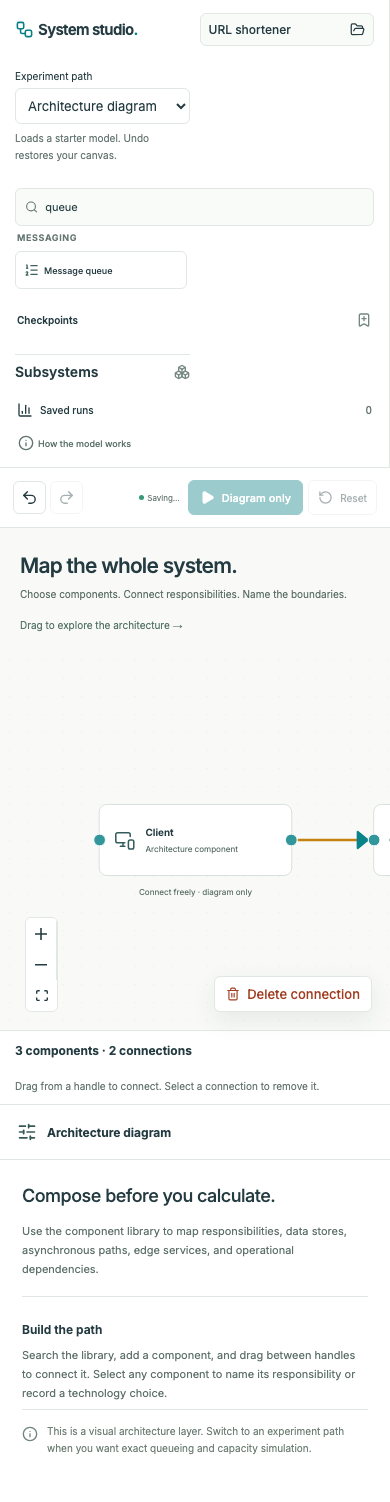
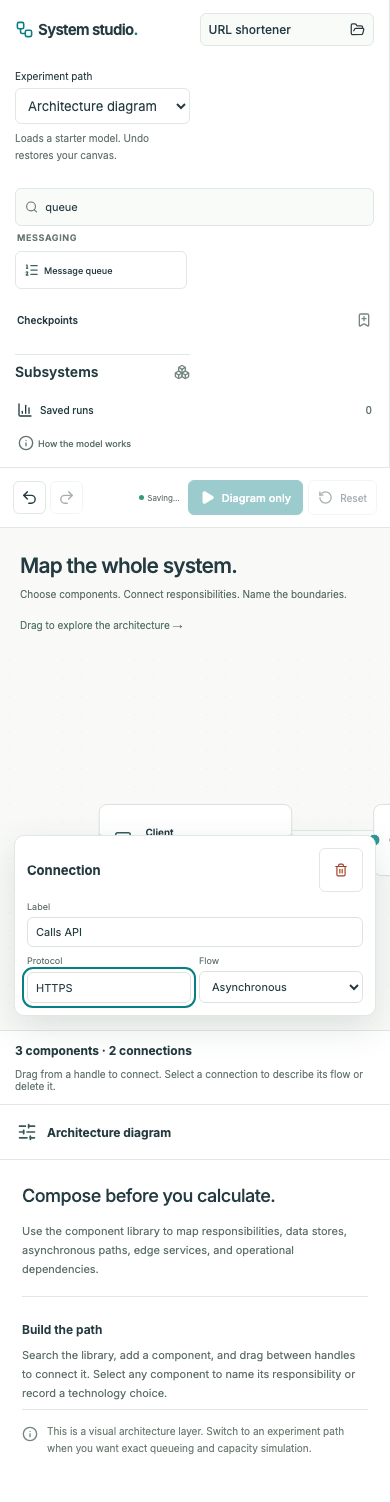
Add editable diagram connection semantics

diff --git a/src/components/ArchitectureCanvas.tsx b/src/components/ArchitectureCanvas.tsx
@@ -326,6 +326,9 @@ export function ArchitectureCanvas({
             data: {
               running: running && pageVisible,
               showLabel: !isDiagramGraph(g),
+              label: e.label,
+              protocol: e.protocol,
+              communication: e.communication ?? "sync",
               rateLabel: observed ? "observed" : g.nodes.find((n) => n.kind === "cache")?.cacheMode === "lru" && target?.kind === "database" ? "capacity" :
                 target?.kind === "worker"
                   ? metrics?.time
@@ -468,10 +471,11 @@ export function ArchitectureCanvas({
       <Background color="#d6e0dc" gap={20} size={1} />
       <Controls showInteractive={false} position="bottom-left" />
     </ReactFlow>
-    {!!selectedEdges.length && <button className="canvas-edge-delete" onClick={() => {
-      editor.change((graph) => { graph.edges = graph.edges.filter((edge) => !selectedEdges.includes(edge.id)); });
-      setSelectedEdges([]);
-    }}><Trash2 size={14} />Delete connection</button>}
+    {!!selectedEdges.length && isDiagramGraph(g) && (() => { const edge = g.edges.find((item) => item.id === selectedEdges[0]); if (!edge) return null; return <section className="connection-editor" aria-label="Selected connection">
+      <div className="connection-editor-heading"><strong>Connection</strong><button aria-label="Delete connection" onClick={() => { editor.change((graph) => { graph.edges = graph.edges.filter((item) => !selectedEdges.includes(item.id)); }); setSelectedEdges([]); }}><Trash2 size={14} /></button></div>
+      <label><span>Label</span><input aria-label="Connection label" maxLength={60} placeholder="Reads, publishes, uploads…" value={edge.label ?? ""} onChange={(event) => editor.change((graph) => { const item = graph.edges.find((candidate) => candidate.id === edge.id); if (item) item.label = event.target.value; })} /></label>
+      <div className="connection-editor-row"><label><span>Protocol</span><input aria-label="Connection protocol" maxLength={30} placeholder="HTTPS, gRPC…" value={edge.protocol ?? ""} onChange={(event) => editor.change((graph) => { const item = graph.edges.find((candidate) => candidate.id === edge.id); if (item) item.protocol = event.target.value; })} /></label><label><span>Flow</span><select aria-label="Connection flow" value={edge.communication ?? "sync"} onChange={(event) => editor.change((graph) => { const item = graph.edges.find((candidate) => candidate.id === edge.id); if (item) item.communication = event.target.value as "sync" | "async" | "data"; })}><option value="sync">Synchronous</option><option value="async">Asynchronous</option><option value="data">Data flow</option></select></label></div>
+    </section>; })()}
     </>
   );
 }

diff --git a/tests/diagram.spec.ts b/tests/diagram.spec.ts
@@ -13,6 +13,10 @@ test("architecture diagram offers searchable components and editable responsibil
   await expect(page.locator(".node-copy").filter({ hasText: "Media bucket" })).toBeVisible();
   await expect(page.locator(".node-copy").getByText("Stores uploaded media and generated thumbnails.", { exact: true })).toBeVisible();
   await expect(page.getByText(/4 components · 2 connections/)).toBeVisible();
+  await page.locator(".react-flow__edge").first().click({ force: true });
+  await page.getByRole("textbox", { name: "Connection label" }).fill("Calls API");
+  await page.getByRole("textbox", { name: "Connection protocol" }).fill("HTTPS");
+  await expect(page.getByRole("region", { name: "Selected connection" })).toBeVisible();
   await page.screenshot({ path: "artifacts/architecture-components.png", fullPage: true });
 });
 
@@ -24,6 +28,10 @@ test("architecture component palette remains usable on mobile", async ({ page })
   await expect(page.getByRole("button", { name: /Message queue/ })).toBeVisible();
   await page.locator(".react-flow__edge").first().click({ force: true });
   await expect(page.getByRole("button", { name: "Delete connection" })).toBeVisible();
+  await page.getByRole("textbox", { name: "Connection label" }).fill("Calls API");
+  await page.getByRole("textbox", { name: "Connection protocol" }).fill("HTTPS");
+  await page.getByRole("combobox", { name: "Connection flow" }).selectOption("async");
+  await expect(page.getByText("Calls API · HTTPS", { exact: true })).toBeVisible();
   expect(await page.locator(".workspace").evaluate((element) => element.getBoundingClientRect().width <= innerWidth)).toBe(true);
   await page.screenshot({ path: "artifacts/architecture-components-mobile.png", fullPage: true });
 });

diff --git a/src/components/TrafficEdge.tsx b/src/components/TrafficEdge.tsx
@@ -8,7 +8,7 @@ import {
 } from "@xyflow/react";
 
 export type TrafficConnection = Edge<
-  { running: boolean; rate: number; rateLabel?: string; showLabel?: boolean },
+  { running: boolean; rate: number; rateLabel?: string; showLabel?: boolean; label?: string; protocol?: string; communication?: "sync" | "async" | "data" },
   "traffic"
 >;
 
@@ -43,6 +43,7 @@ export const TrafficEdge = memo(function TrafficEdge({
         style={{
           stroke: selected ? "#c48212" : "#72b4b2",
           strokeWidth: selected ? 2 : 1.4,
+          strokeDasharray: data?.communication === "async" ? "7 5" : data?.communication === "data" ? "2 4" : undefined,
         }}
       />
       <path
@@ -54,15 +55,14 @@ export const TrafficEdge = memo(function TrafficEdge({
           opacity: moving ? 1 : 0,
         }}
       />
-      {data?.showLabel !== false && <EdgeLabelRenderer>
+      {(data?.showLabel !== false || data?.label || data?.protocol) && <EdgeLabelRenderer>
         <span
           className="traffic-edge-label"
           style={{
             transform: `translate(-50%, -50%) translate(${labelX}px, ${labelY}px)`,
           }}
         >
-          {Math.round(data?.rate ?? 0).toLocaleString()} /s{" "}
-          {data?.rateLabel ?? "expected"}
+          {data?.showLabel === false ? [data?.label, data?.protocol].filter(Boolean).join(" · ") : <>{Math.round(data?.rate ?? 0).toLocaleString()} /s {data?.rateLabel ?? "expected"}</>}
         </span>
       </EdgeLabelRenderer>}
     </>

diff --git a/src/styles.css b/src/styles.css
@@ -228,7 +228,13 @@ p {
 .diagram-inspector textarea { min-height: 112px; }
 .diagram-node .react-flow__handle { width: 14px; height: 14px; }
 .diagram-node .node-copy span { white-space: normal; overflow: hidden; display: -webkit-box; -webkit-line-clamp: 2; -webkit-box-orient: vertical; line-height: 1.35; }
-.canvas-edge-delete { position: absolute; z-index: 8; right: 18px; bottom: 18px; color: #a13e21; background: #fff; box-shadow: 0 8px 24px #203d3517; }
+.connection-editor { position: absolute; z-index: 8; right: 18px; bottom: 18px; width: 260px; padding: 12px; border: 1px solid var(--line); border-radius: 10px; background: #fff; box-shadow: var(--shadow); }
+.connection-editor-heading { display: flex; align-items: center; justify-content: space-between; margin-bottom: 9px; }
+.connection-editor-heading button { width: 44px; height: 44px; padding: 0; color: #a13e21; }
+.connection-editor label { display: grid; gap: 5px; font-size: 9px; color: var(--muted); }
+.connection-editor input, .connection-editor select { min-width: 0; padding: 7px 8px; font-size: 11px; }
+.connection-editor-row { display: grid; grid-template-columns: 1fr 1fr; gap: 8px; margin-top: 8px; }
+@media (max-width: 560px) { .connection-editor { position: absolute; left: 14px; right: 14px; bottom: 14px; width: auto; } }
 .checkpoints {
   margin-top: 34px;
   border-top: 1px solid var(--line);

diff --git a/src/domain/model.ts b/src/domain/model.ts
@@ -33,6 +33,9 @@ export interface ModelEdge {
   id: string;
   source: string;
   target: string;
+  label?: string;
+  protocol?: string;
+  communication?: "sync" | "async" | "data";
 }
 export interface Settings {
   traffic: number;
@@ -289,6 +292,11 @@ export function validateGraph(graph: Graph, requireRunnable = true): string[] {
   errors.push(...validateProfile(s));
   if (edges.some((e) => !ids.has(e.source) || !ids.has(e.target)))
     errors.push("A connection references a missing component.");
+  for (const edge of edges) {
+    if (edge.label !== undefined && (typeof edge.label !== "string" || edge.label.length > 60)) errors.push("Connection labels must be 60 characters or fewer.");
+    if (edge.protocol !== undefined && (typeof edge.protocol !== "string" || edge.protocol.length > 30)) errors.push("Connection protocols must be 30 characters or fewer.");
+    if (edge.communication !== undefined && !["sync", "async", "data"].includes(edge.communication)) errors.push("Choose synchronous, asynchronous, or data flow.");
+  }
   // Drafts are portable even before their topology can execute.
   if (!requireRunnable) return [...new Set(errors)];
   if (graph.scenario === "diagram") return [...new Set(errors)];

diff --git a/src/App.tsx b/src/App.tsx
@@ -622,7 +622,7 @@ export default function App() {
         ) : diagramMode ? (
           <section className="diagram-status" aria-label="Diagram guidance">
             <strong>{graph.nodes.length} components · {graph.edges.length} connections</strong>
-            <span>{graph.nodes.length >= 100 ? "Component limit reached. " : ""}{graph.edges.length >= 200 ? "Connection limit reached." : "Drag from a handle to connect. Select a connection to remove it."}</span>
+            <span>{graph.nodes.length >= 100 ? "Component limit reached. " : ""}{graph.edges.length >= 200 ? "Connection limit reached." : "Drag from a handle to connect. Select a connection to describe its flow or delete it."}</span>
           </section>
         ) : (
           <MetricsPanel

diff --git a/DESIGN.md b/DESIGN.md
@@ -206,3 +206,5 @@ Finite caches retain the existing node and inspector layout. Their header shows 
 Architecture diagram mode preserves the docked canvas but changes its job from executable experiment to system composition. The left library becomes a searchable catalog of 28 component types grouped by Clients, Edge, Compute, Data, Messaging and Operations. The diagram supports up to 100 components and 200 directed connections. Component cards retain the compact node grammar and Lucide stroke language; each card has an editable name and a 240-character responsibility or technology note. Touch-operable handles on both sides create free-form connections, while selecting an edge reveals an explicit Delete connection action in addition to keyboard deletion.
 
 Diagram edges intentionally omit request-rate labels and animation. The toolbar identifies the mode as diagram-only and disables run/reset actions, the bottom strip reports component and connection counts, and the inspector explains the boundary between visual architecture and exact simulation. Diagram components never acquire implied execution behavior; URL lookup, load-balanced lookup and background-job simulation remain unchanged. Mobile constrains the catalog to a scrollable two-column region so the canvas remains reachable and preserves the selected-edge delete action for touch use.
+
+Selected diagram connections open a compact canvas editor for a concise relationship label, protocol, and flow type. Synchronous paths are solid, asynchronous paths dashed, and data movement dotted; labels combine the relationship and protocol without introducing throughput claims. The same editor carries the touch-safe delete action.

diff --git a/HANDOFF.md b/HANDOFF.md
@@ -2,6 +2,8 @@
 
 Current architecture-component milestone: a separate diagram scenario offers 28 searchable components across six system layers, up to 100 nodes/200 connections, free directed wiring, editable names and responsibility/technology notes. Diagram mode is explicitly non-executable: it hides traffic-rate edge labels, disables Run/Reset, and keeps the existing exact simulations unchanged.
 
+Connection semantics now persist on diagram edges: optional 60-character relationship label, 30-character protocol, and sync/async/data classification. Selected edges open a touch-safe canvas editor and render solid/dashed/dotted paths respectively.
+
 Current finite-cache semantics: keys depend on seed, request ordinal and normalized URL popularity independently of arrivals. Finite LRU begins empty, decides at cache completion and fills only on live database completion. TTL starts at fill; hits refresh recency only. Expired active work holds its slot; timeout-before-database-completion cannot fill. There is no miss coalescing, write or invalidation model. All service instances share the cache. Observed hit rate uses completed hits plus misses, excluding pre-decision rejection/expiry.
 
 User workflow preference: use Gemini through `agy` for code exploration and minor implementations (`agy models` discovers models), not direct Gemini CLI. Gemini3.8Flash through agy generated observedCacheHitRate and tests; origin corrected the named type import and reviewed the output. Optional further source review is pending explicit source-sharing approval and does not block this milestone.

diff --git a/README.md b/README.md
@@ -6,6 +6,8 @@ An interactive architecture-learning workspace. Explore URL lookups and queued b
 
 Choose **Architecture diagram** to compose a system from 28 searchable building blocks across clients, edge, compute, data, messaging and operations. Connect up to 100 components freely and annotate each responsibility or technology choice. Diagram components are visual by design; exact executable experiments remain separate, so a component never implies simulation behavior it does not implement.
 
+Select a connection to name the relationship, record its protocol, and classify it as synchronous, asynchronous, or data flow. Those choices appear as solid, dashed, or dotted paths and persist with checkpoints and exports.
+
 ## Run locally
 
 Requires Node.js 22.12+ (verified with Node 24.5).
